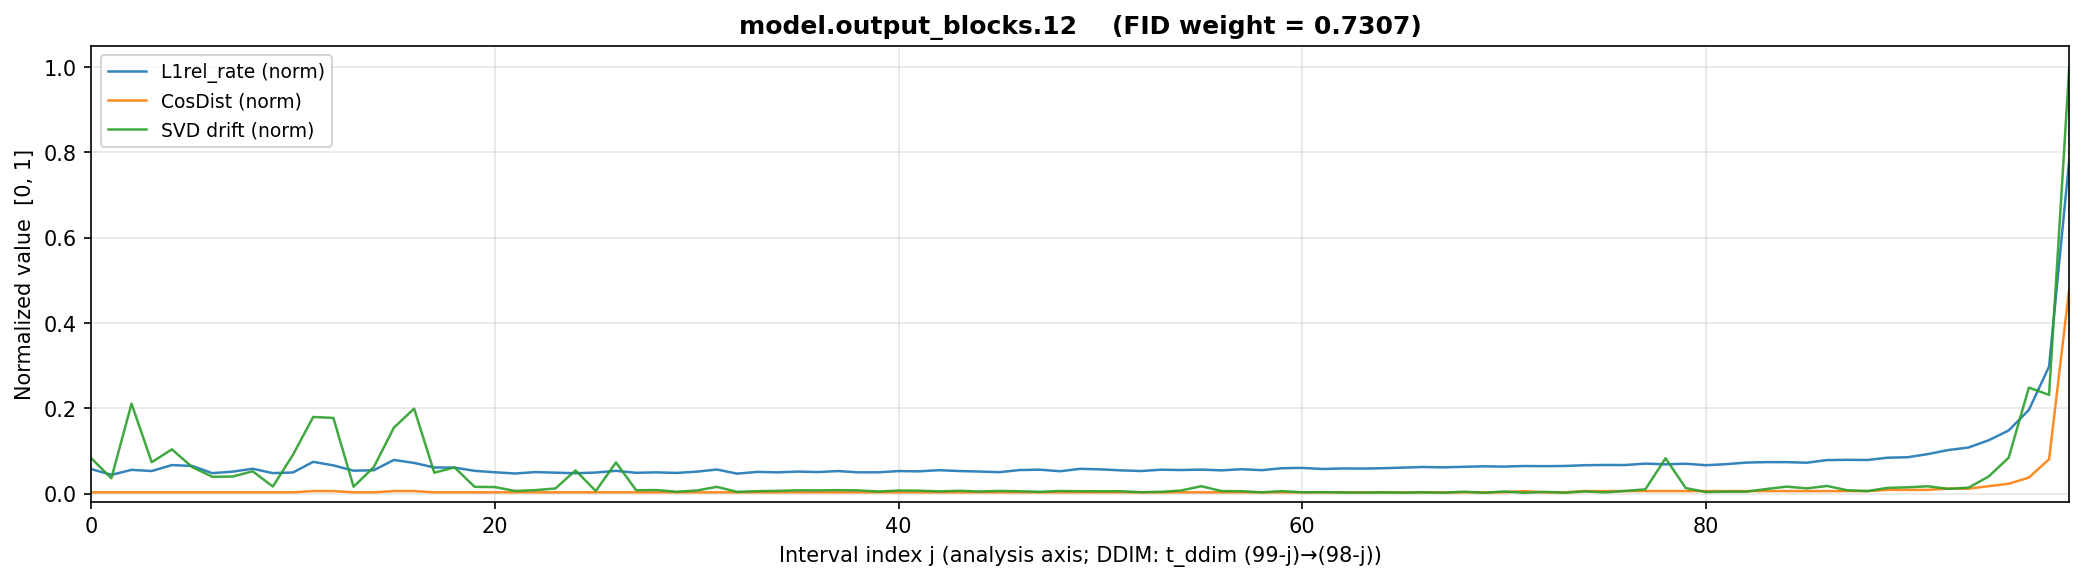
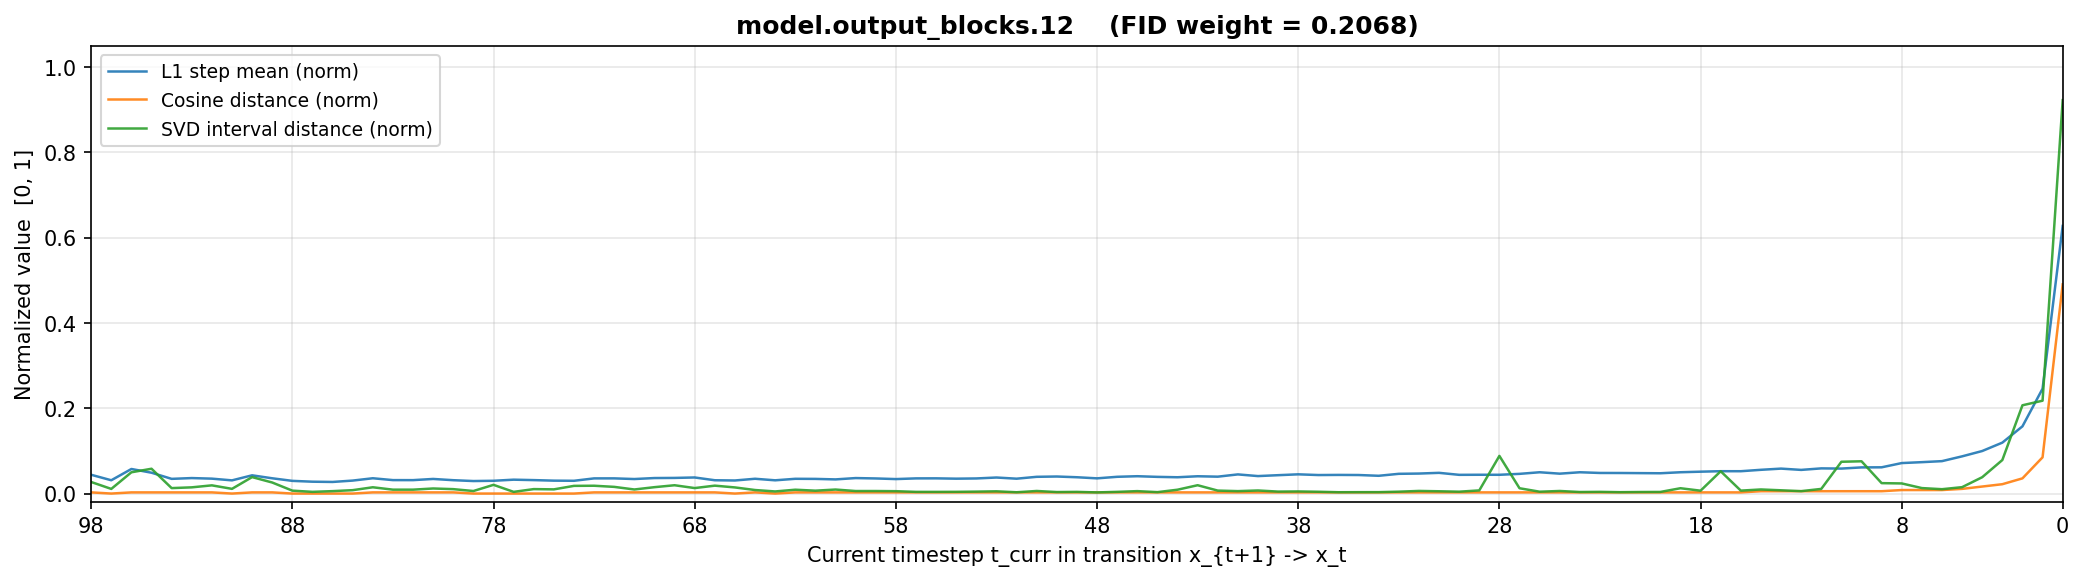
update

diff --git a/QATcode/cache_method/Stage0/stage0e_visualization.py b/QATcode/cache_method/Stage0/stage0e_visualization.py
@@ -2,7 +2,7 @@
 Stage-0E Visualization
 
 讀取 Stage-0E 的 .npy 輸出，繪製：
-1. 代表性 block 的三條曲線（L1 step mean / cosine distance / SVD interval distance）
+1. 每個 block 的三條曲線（L1 step mean / cosine distance / SVD interval distance）
 2. 所有 block 的 FID weight bar chart
 3. 全局 heatmap（B × T-1）
 
@@ -388,9 +388,6 @@ def select_representative_blocks(
 def main(
     input_dir: str,
     output_dir: str,
-    n_top: int = 3,
-    n_bottom: int = 2,
-    extra_blocks: Optional[List[str]] = None,
 ):
     """
     Stage-0E 可視化主流程。
@@ -398,9 +395,8 @@ def main(
     Args:
         input_dir: Stage-0E 的 .npy 輸出目錄
         output_dir: 圖片輸出目錄
-        n_top: 繪製 FID weight 最高的幾個 block
-        n_bottom: 繪製 FID weight 最低的幾個 block
-        extra_blocks: 額外指定要繪製的 block 名稱
+
+    對 **所有** block 產生 per-block 曲線與 combined overview（不再只畫代表性子集）。
     """
     out = Path(output_dir)
     out.mkdir(parents=True, exist_ok=True)
@@ -416,12 +412,10 @@ def main(
     print(f"    B={B}, T-1={T_minus_1}")
     print(f"    axis: {axis_def}")
 
-    # 2. 選出代表性 block
-    print("\n[2] 選出代表性 block...")
-    indices = select_representative_blocks(
-        block_names, fid_w, n_top=n_top, n_bottom=n_bottom, extra=extra_blocks,
-    )
-    print(f"    選出 {len(indices)} 個 block:")
+    # 2. 使用全部 block（per-block 曲線與 overview）
+    print("\n[2] 使用全部 block 繪圖...")
+    indices = list(range(B))
+    print(f"    共 {len(indices)} 個 block")
     for idx in indices:
         tag = "HIGH" if fid_w[idx] > 0.1 else ("LOW" if fid_w[idx] == 0 else "MID")
         print(f"      [{idx:2d}] {block_names[idx]:35s}  w={fid_w[idx]:.4f}  ({tag})")
@@ -475,7 +469,4 @@ if __name__ == "__main__":
     main(
         input_dir=os.path.join(project_root, "QATcode/cache_method/Stage0/stage0e_output"),
         output_dir=os.path.join(project_root, "QATcode/cache_method/Stage0/stage0e_figures"),
-        n_top=3,
-        n_bottom=2,
-        extra_blocks=["model.middle_block", "model.input_blocks.7"],
     )
